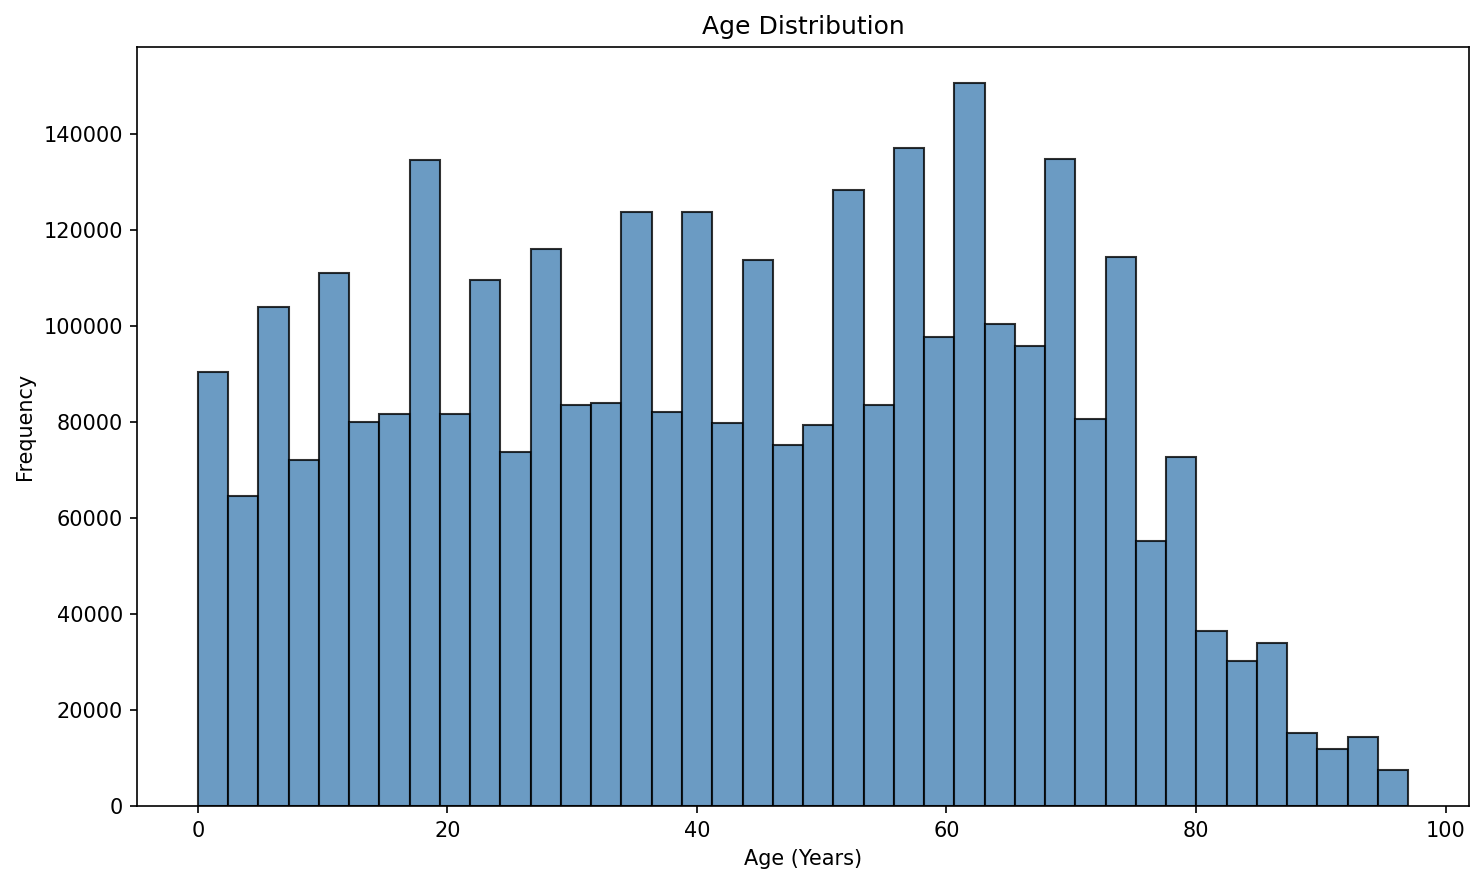
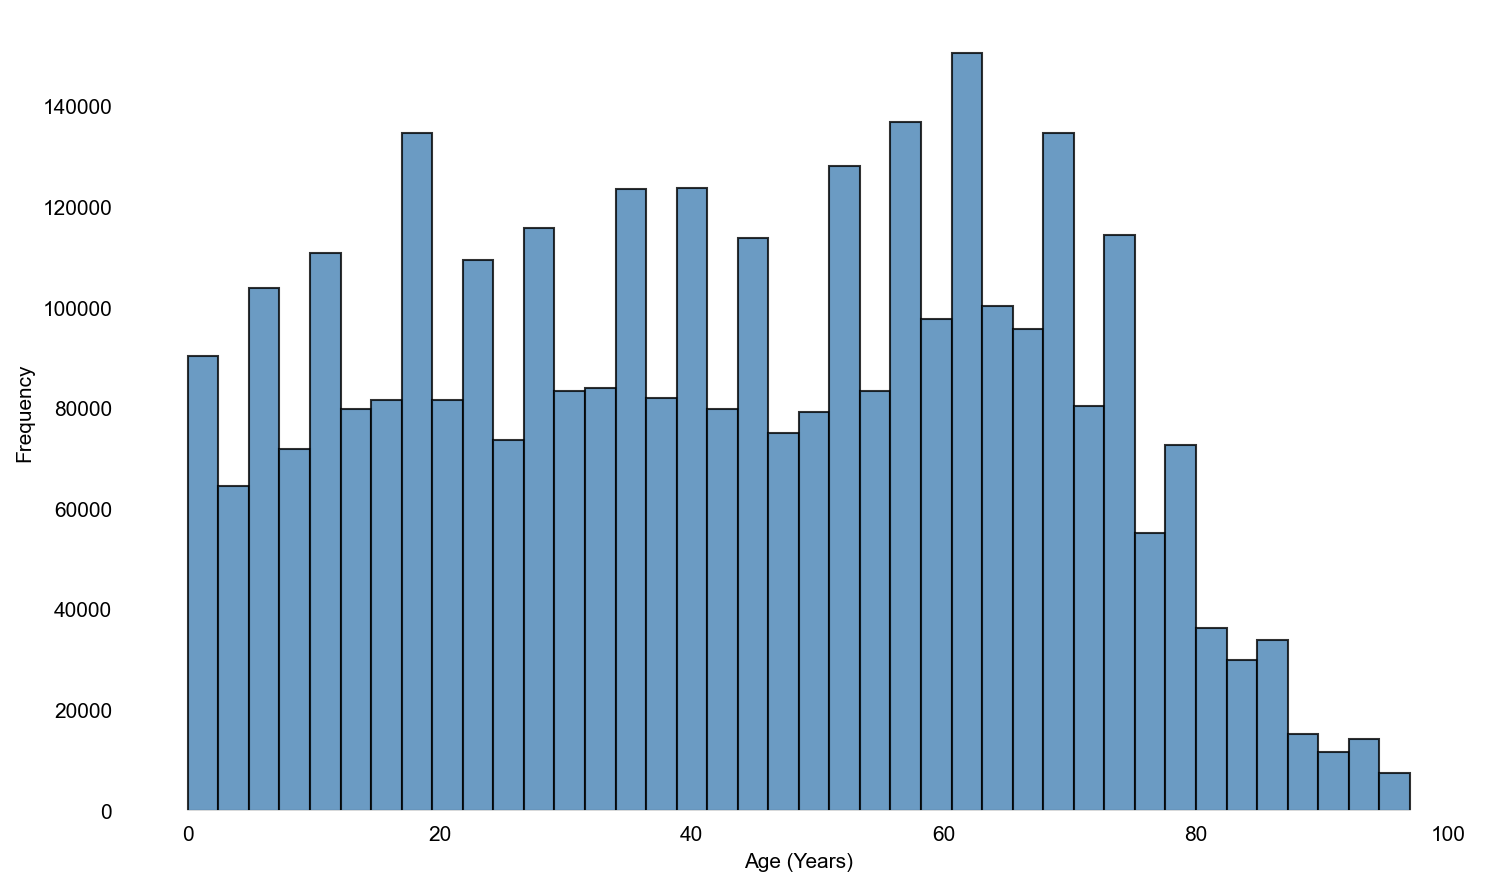
new visuals + some cleaner code etc..

diff --git a/data_analysis_script.py b/data_analysis_script.py
@@ -1,0 +1,35 @@
+import pandas as pd
+import numpy as np
+import json
+from csv_loader import load_csv_chunked
+
+def analyze_data():
+    print("Loading data for analysis...")
+    df = load_csv_chunked("us_census_puma_data.csv", max_rows=3000000)
+    
+    stats = {}
+    
+    print("Calculating statistics...")
+    # Age stats
+    stats["AGEP_percentiles"] = {str(k): float(v) for k, v in df["AGEP"].quantile([0.1, 0.2, 0.25, 0.33, 0.5, 0.66, 0.75, 0.8, 0.9, 0.95, 0.99]).items()}
+    stats["AGEP_min"] = float(df["AGEP"].min())
+    stats["AGEP_max"] = float(df["AGEP"].max())
+    
+    stats["PINCP_percentiles"] = {str(k): float(v) for k, v in df["PINCP"].quantile([0.1, 0.2, 0.25, 0.33, 0.5, 0.66, 0.75, 0.8, 0.9, 0.95, 0.99]).items()}
+    stats["PINCP_min"] = float(df["PINCP"].min())
+    stats["PINCP_max"] = float(df["PINCP"].max())
+    
+    stats["SEX_counts"] = {str(k): int(v) for k, v in df["SEX"].value_counts().items()}
+    
+    stats["RAC1P_counts"] = {str(k): int(v) for k, v in df["RAC1P"].value_counts().items()}
+    
+    stats["Lat_bounds"] = {"min": float(df["Latitude"].min()), "max": float(df["Latitude"].max())}
+    stats["Lon_bounds"] = {"min": float(df["Longitude"].min()), "max": float(df["Longitude"].max())}
+
+    with open("data_summary.json", "w") as f:
+        json.dump(stats, f, indent=4)
+        
+    print("Data analysis complete. Results saved to data_summary.json.")
+
+if __name__ == "__main__":
+    analyze_data()

diff --git a/data_analysis_report.md b/data_analysis_report.md
@@ -1,0 +1,100 @@
+# Fairness Data Analysis & Binning Strategy
+
+Based on the 2.84 million representative rows extracted from your Census dataset, here is the statistical breakdown and our recommended binning strategy for your fair clustering algorithms.
+
+## 1. Age (`AGEP`)
+The dataset contains ages ranging from **15 to 97**.
+
+**Current Distribution:**
+- 10th Percentile: 21
+- **25th Percentile: 32**
+- **50th Percentile (Median): 50**
+- **75th Percentile: 65**
+- 90th Percentile: 75
+
+**Problem with current `[0, 18, 35, 55, 120]` bins:**
+The `Youth (0-18)` group is virtually empty since the minimum age in this dataset is 15. Your `Senior (55+)` bin captures over 40% of the entire population. Heavily unbalanced bins make fair grouping much more distorted.
+
+**Recommended Quartile Bins:**
+To ensure natural balance across your groups, use quartiles:
+* `Youth`: $\le 32$
+* `YoungAdult`: $33 - 50$
+* `Adult`: $51 - 65$
+* `Senior`: $66+$
+
+```python
+# Updated Age Binning Code
+df_core['AGE_BIN'] = pd.cut(df_core['AGEP'], 
+                            bins=[0, 32, 50, 65, 120],
+                            labels=['Youth', 'YoungAdult', 'Adult', 'Senior'])
+```
+
+---
+
+## 2. Income (`PINCP`)
+The dataset contains personal incomes ranging from **\$0 to \$1,686,200**.
+
+**Current Distribution:**
+- 10th Percentile: $0
+- 25th Percentile: $9,600
+- 33rd Percentile: $15,000
+- **50th Percentile (Median): $30,000**
+- 66th Percentile: $48,000
+- **75th Percentile: $61,000**
+- 90th Percentile: $107,800
+
+**Problem with current limit `[35000, 75000]`:**
+Over 55% of the entire population falls into your `Low` bucket (<$35k). Your `High` bucket (>$75k) contains less than 20% of the people. 
+
+**Recommended Tercile Bins:**
+If you want 3 buckets (Low, Med, High), using the 33% and 66% marks ensures equal representation:
+* `Low`: $\le \$15,000$ (Captures part-time, unemployed, and low-wage)
+* `Med`: $\$15,001 - \$48,000$ (Median wage earners)
+* `High`: $>\$48,000$ (Upper tier)
+
+```python
+# Updated Income Binning Code
+df_core['INC_BIN'] = pd.cut(df_core['PINCP'], 
+                            bins=[-np.inf, 15000, 48000, np.inf], 
+                            labels=['Low', 'Med', 'High'])
+```
+
+---
+
+## 3. Sex (`SEX`)
+The split is nearly perfectly balanced. 
+- **Type 2 (Female, usually):** 1.45M (51.2%)
+- **Type 1 (Male, usually):**  1.38M (48.8%)
+
+**Recommendation:**
+You can safely use `SEX` as an intersectional attribute without worrying about creating a severely small minority group that stalls your iterative rounding algorithm.
+
+---
+
+## 4. Race (`RAC1P`)
+This attribute is heavily skewed, which is very typical for the US Census:
+- **1 (White):** 1.93M (68.1%)
+- **9 (Two+ races):** 281K (9.9%)
+- **2 (Black):** 252K (8.9%)
+- **6 (Asian):** 175K (6.1%)
+- **8 (Other):** 155K (5.4%)
+- **3, 4, 5, 7 (Native, Pacific Islander, etc.):** < 35K combined (< 1%)
+
+**Recommendation:**
+If you intersect `Race` with `Age` and `Income`, groups 3, 4, 5, and 7 will become so small that the LP relaxations in your algorithms might fail or suffer massive rounding violations.
+**Action:** Collapse race into 3 macro categories before creating the `GROUP_ID`:
+* `White (1)`
+* `Black (2)`
+* `Other (everything else)`
+
+```python
+# Example Race Collapse
+df_core['RACE_MACRO'] = df_core['RAC1P'].apply(lambda x: 'White' if x == 1 else ('Black' if x == 2 else 'Other'))
+```
+
+---
+
+## Final Recommendation for `GROUP_ID` (Intersectional Fairness)
+When defining the subset to balance across your clusters, pick **two** attributes to cross. Crossing all 4 (Age $\times$ Income $\times$ Sex $\times$ Race) will result in $4 \times 3 \times 2 \times 3 = 72$ groups. Algorithms like Bera's and Böhm's struggle drastically when the number of groups $H$ scales up, drastically increasing the Price of Fairness.
+
+Instead, start with **Age $\times$ Income** (12 groups) or **Sex $\times$ Race** (6 groups) to keep the dimensionality of the fairness constraint reasonable while still showcasing powerful intersectional fairness.
